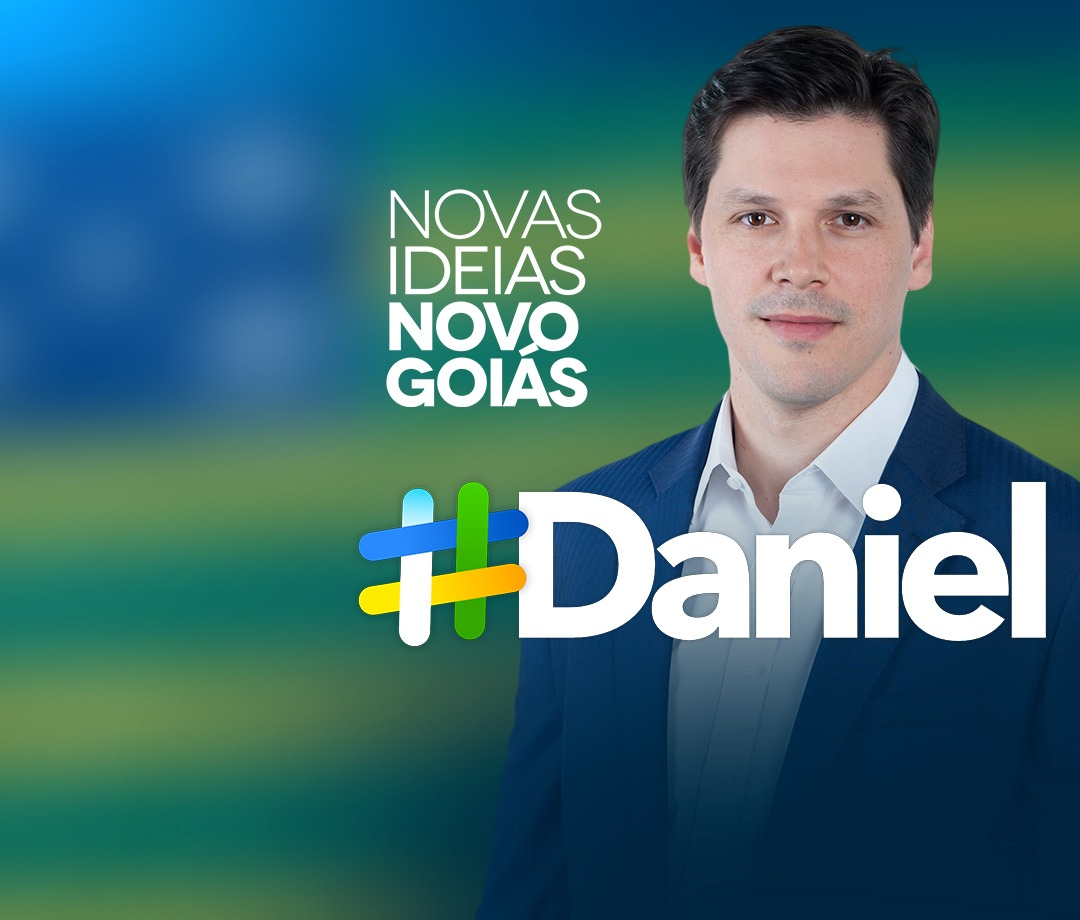
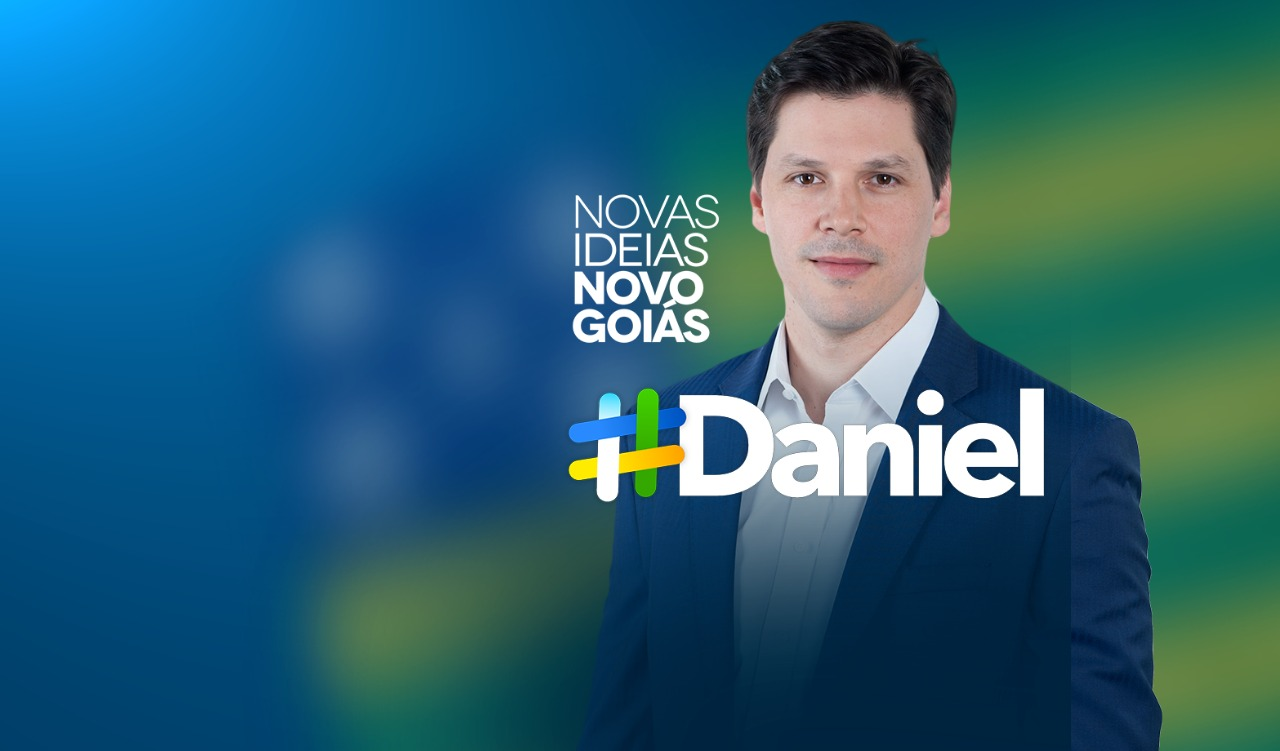
Novo bg

diff --git a/css/style.css b/css/style.css
@@ -4,10 +4,9 @@ html {
 
 body {
   background: url('../img/bg.jpeg') no-repeat center top;
-  background-size: cover;
+  background-size: contain;
   -webkit-background-size: cover;
   -moz-background-size: cover;
-  background-size: cover;
   -o-background-size: cover;
   overflow: hidden;
 }
